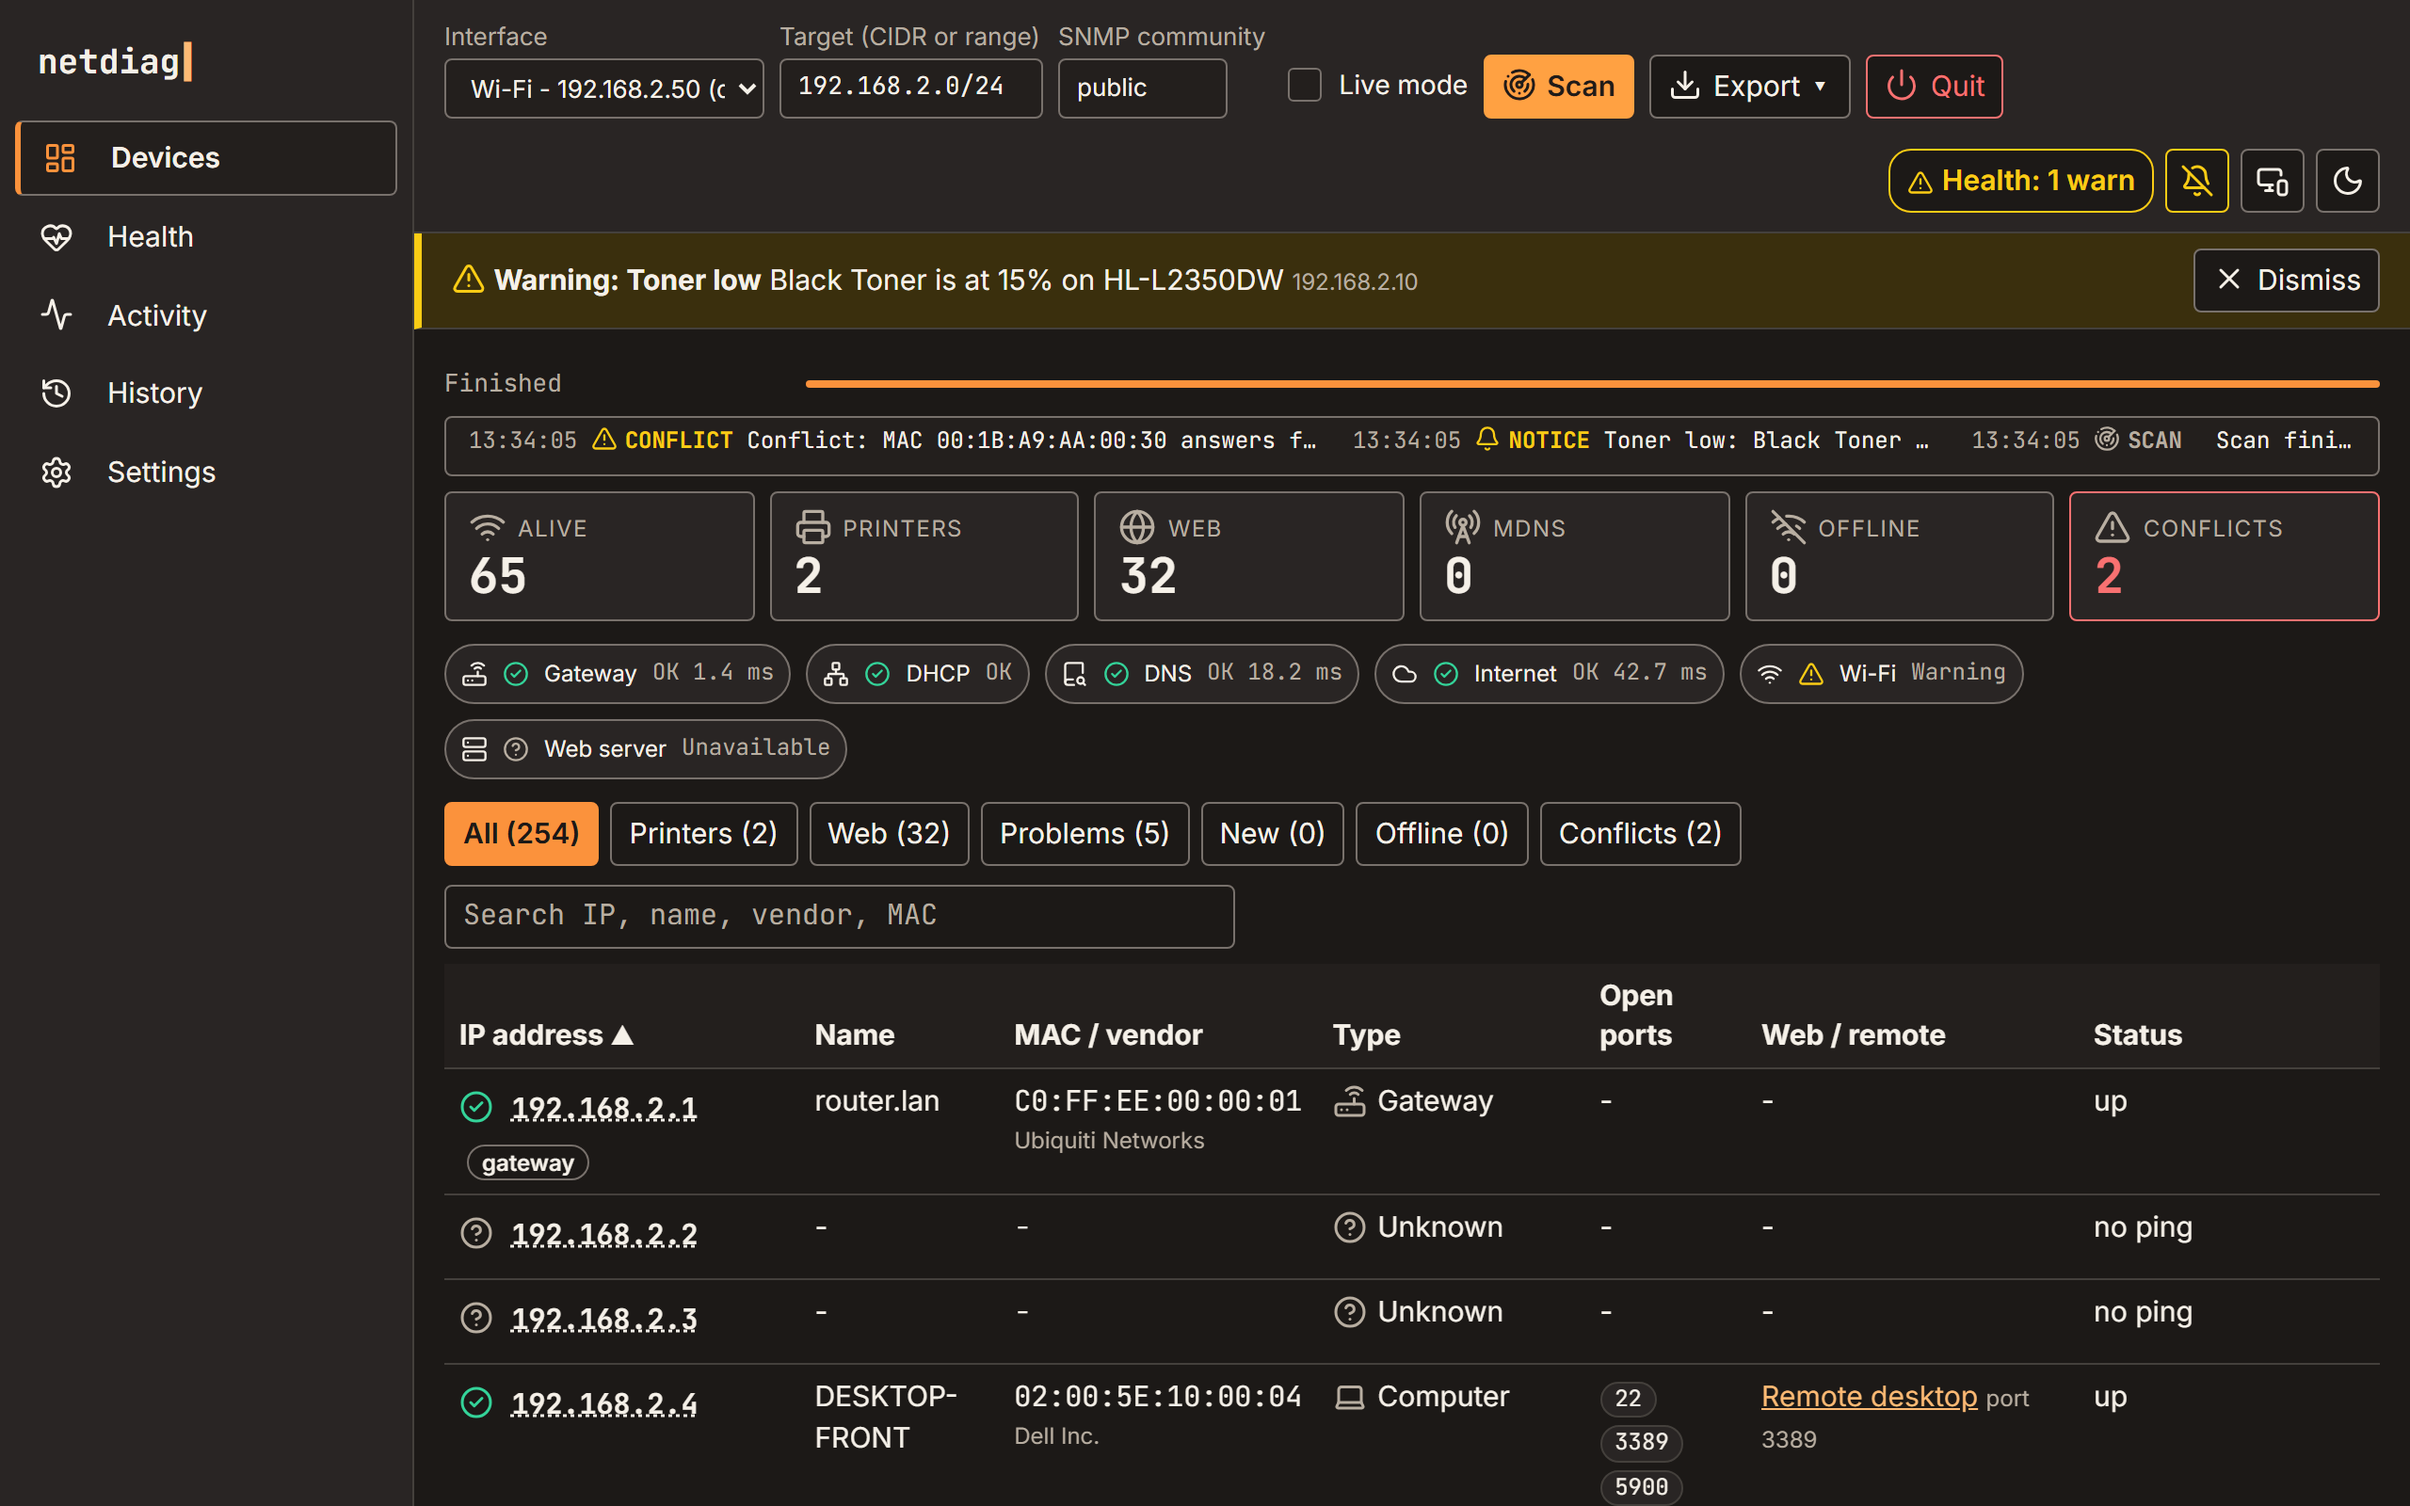
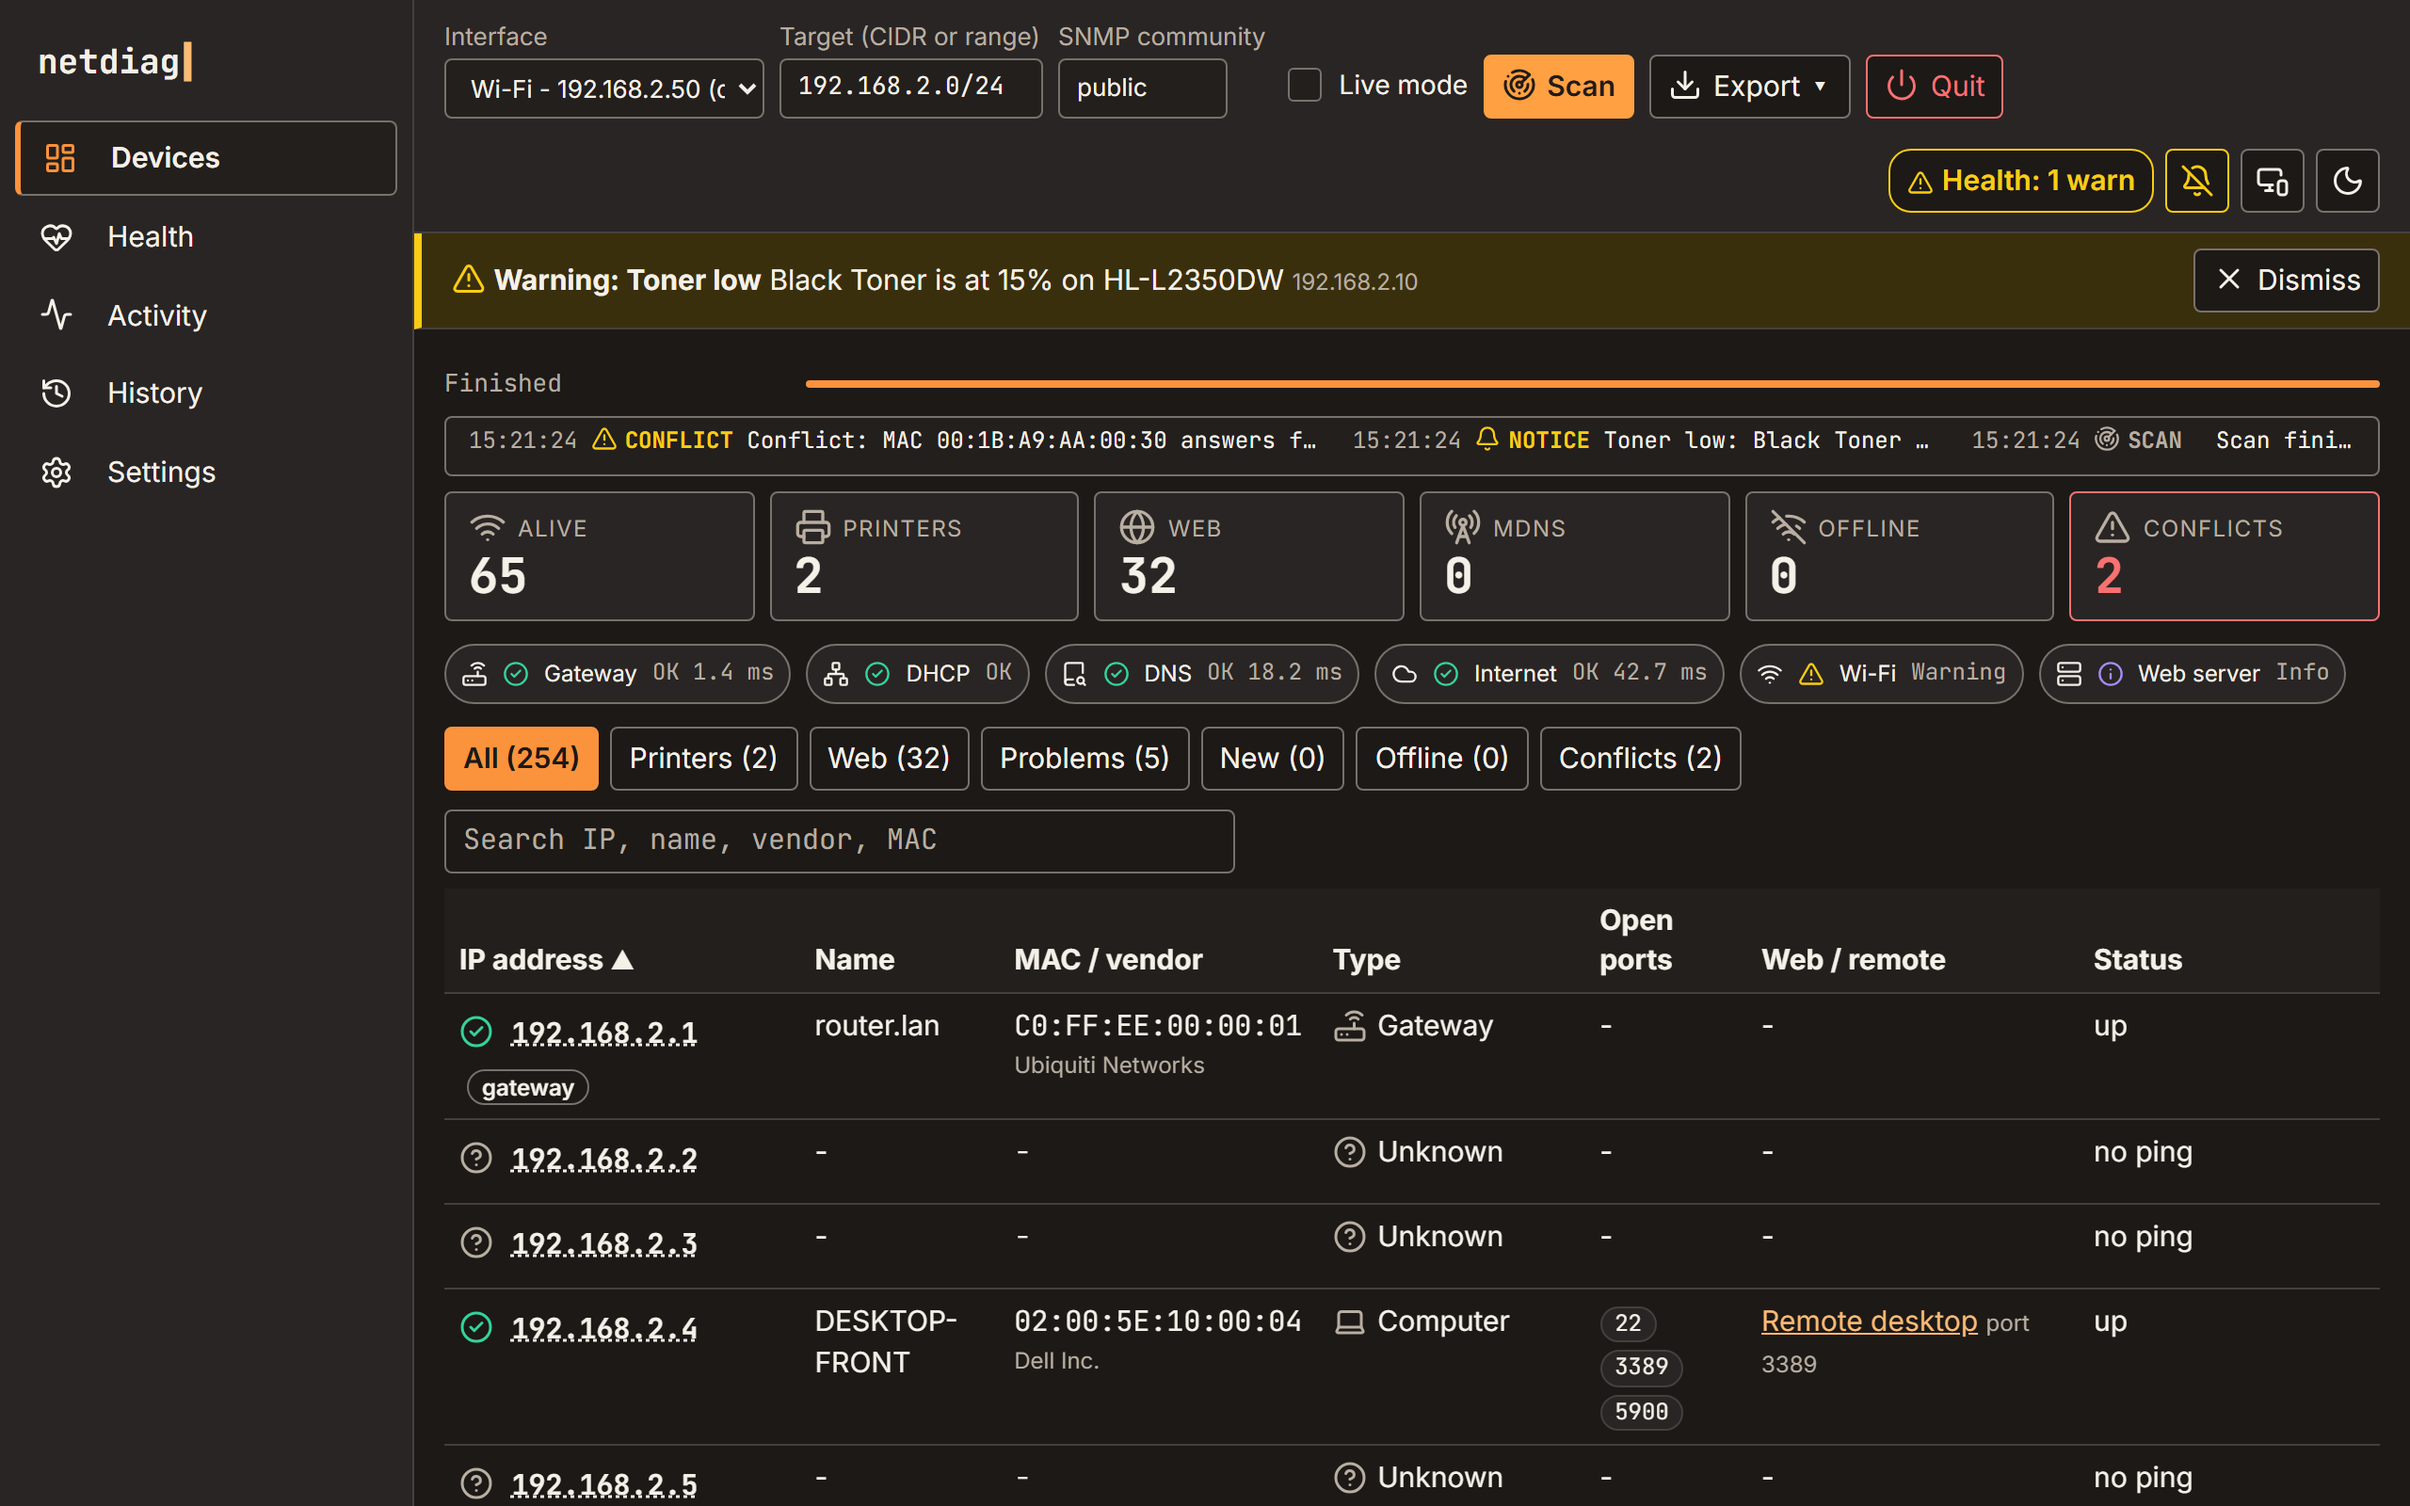
Site and README: show v0.5.8
Bump the version pill and retake the fixture screenshots (README and
site), which now show the "not configured" Web server card with its
Settings link.

diff --git a/docs/index.html b/docs/index.html
@@ -40,7 +40,7 @@
 <main id="main">
   <section class="hero" id="top">
     <div class="wrap narrow">
-      <p class="pill"><span class="pulse" aria-hidden="true"></span> v0.5.7 · Windows &amp; macOS · one binary</p>
+      <p class="pill"><span class="pulse" aria-hidden="true"></span> v0.5.8 · Windows &amp; macOS · one binary</p>
       <h1>Know what is on your network in <em>ten&nbsp;seconds</em>.</h1>
       <p class="capability">Printers, web pages, IP conflicts, and the health of the gateway, DHCP, DNS and Wi-Fi, in one window.</p>
       <p class="lede">netdiag sweeps the local subnet with ping, ARP, port probes, SNMP, mDNS and IPP, then shows what answered, what it is, and what is wrong with it. Built for whoever gets the call when the printer stops or the Wi-Fi “is down”.</p>
